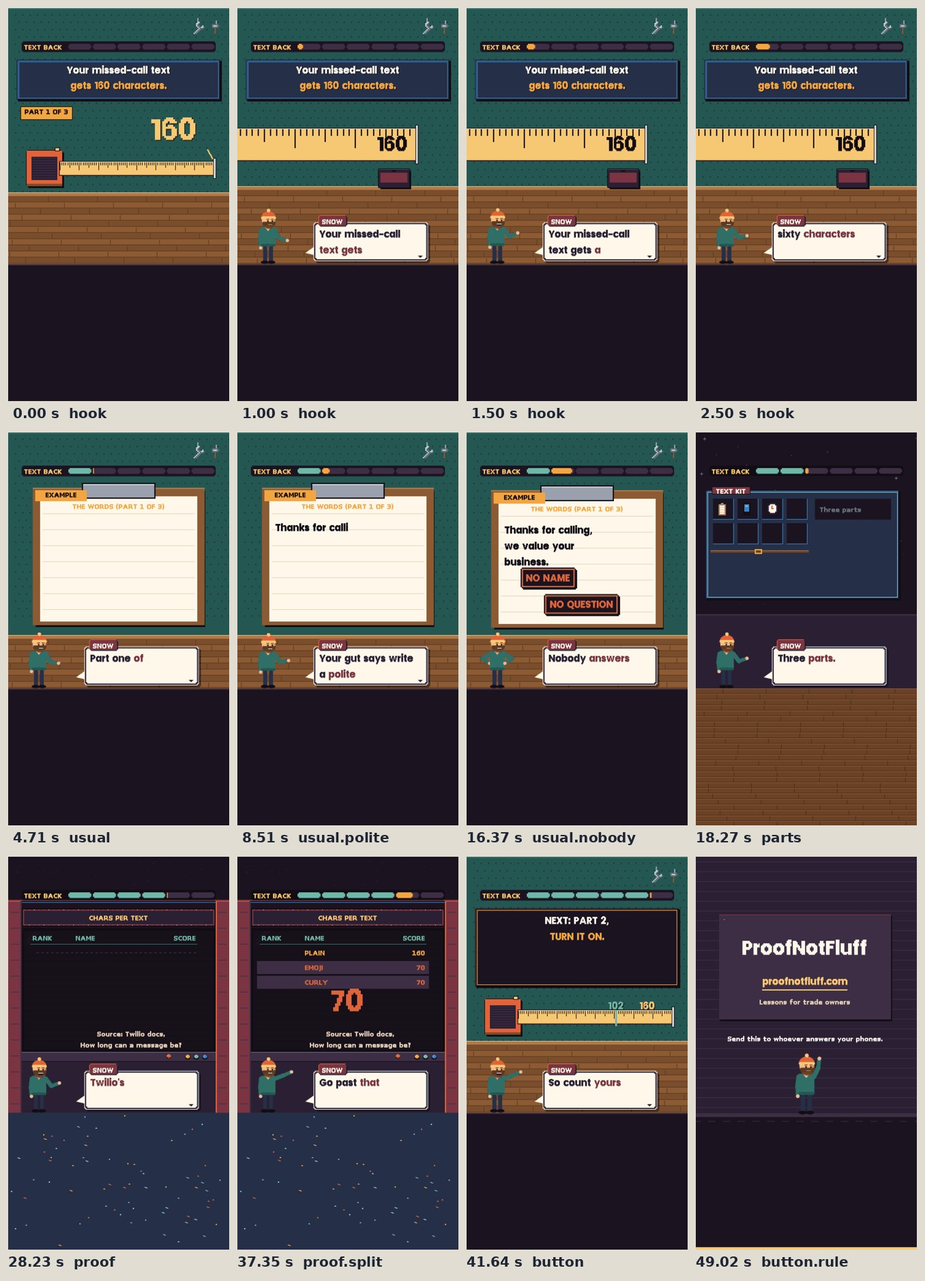
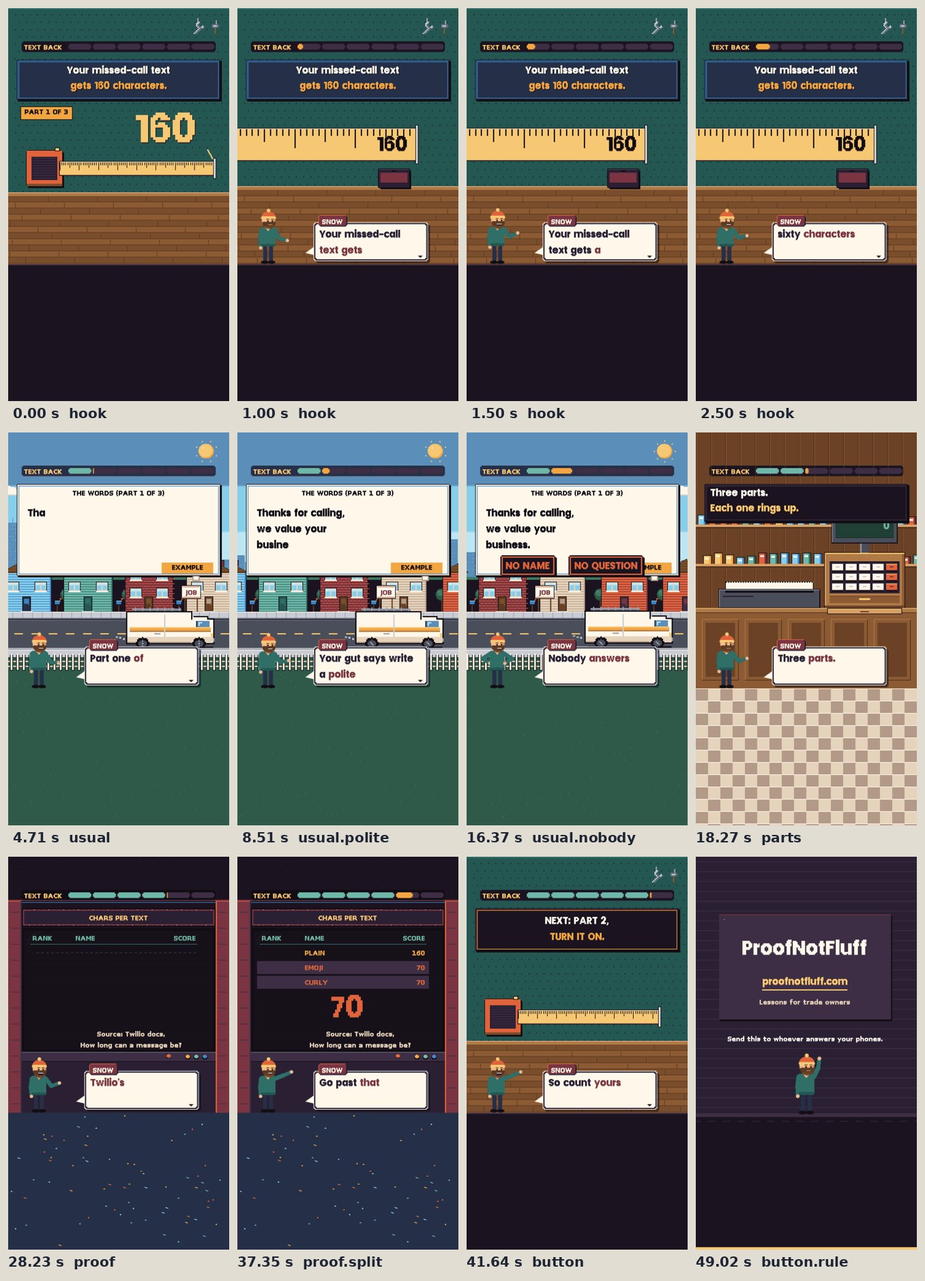
Studio: missed-call-text design fix round (street, register, tape pull, hero sizes); Kimi facts r0 FAIL handled: takes 2 and 4 re-spoken ('There's nothing to answer.', 'splits it and bills each piece'); facts-captions PASS
Claude-Session: https://claude.ai/code/session_01XMn4eGaWzK3tPCYiVrDVRf

diff --git a/video/studio/videos/2026-11-12-missed-call-text/04_scene/scene.js b/video/studio/videos/2026-11-12-missed-call-text/04_scene/scene.js
@@ -2,8 +2,8 @@
 /* 03_cues/cues.md. Numbers only from k.data (brief.md -> data.js); every time from a cue start (k.S) or a spoken word   */
 /* (wordT), so a re-voiced take moves the picture with it.                                                              */
 /* Worlds: hook and button = our own workbench with a tape measure pulled out to the 160 mark (the text's whole budget), */
-/* its close-up and a phone close-up; usual = our own clipboard note; parts = inventory; copy = our own big text card    */
-/* with a character counter; proof = scores. None of them used by the lesson before it in line (brief.md, Worlds).      */
+/* its close-up and a phone close-up; usual = street; parts = register; copy = our own big text card with a hud bar;    */
+/* proof = scores. None of them used by the lesson before it in line (brief.md, Worlds).                                */
 const INK = '#120D14', CREAM = '#FFF7EA', SAND = '#E6D3BC', GOLD = '#F7C873', ORANGE = '#F2A541', RED = '#E2633B', TEAL = '#6FB7A8', GREY = '#9AA0AD';
 const hash = (n) => { const s = Math.sin(n * 127.1 + 311.7) * 43758.5453; return s - Math.floor(s); };
 const clamp = (v, a = 0, b = 1) => Math.max(a, Math.min(b, v));
@@ -151,7 +151,7 @@ window.SCENE = {
       const d = bench(k);
       const t = tape(k, d, {x0: 84, y: 250, len: 250, h: 22, max: n.plain.value});
       /* the one focal point: the hero number over the hook, a gold arrow down to it */
-      k.text(n.plain.shown, 924, 498, {size: 198, color: GOLD, align: 'right', drop: INK});
+      k.text(n.plain.shown, 924, 462, {size: 264, color: GOLD, align: 'right', drop: INK});
       d.line(t.x(n.plain.value) - 10, 230, t.x(n.plain.value) - 2, 244, GOLD, 2);
       hookPlate(k, d, HOOK(n));
       partTag(k, d, n);
@@ -161,32 +161,33 @@ window.SCENE = {
     /* ---- usual: the clipboard on the bench. PART 1 OF 3: THE WORDS on the clip; the polite paragraph types out on    */
     /* "polite"; NO NAME stamps on "name", NO QUESTION on "question"; Snow shrugs on "Nobody".                          */
     usual: (k, T) => {
-      const n = k.data.numbers, d = bench(k, {top: 330}), t0 = k.S('usual'), tPol = k.S('usual.polite');
+      const n = k.data.numbers, t0 = k.S('usual'), tPol = k.S('usual.polite');
       const tName = wordT(k, 'usual.no', /^name/i, 0.5), tQ = wordT(k, 'usual.no', /^question/i, 1.1), tNob = k.S('usual.nobody');
-      const drop = T >= tNob ? Math.min(6, d.fr(tNob) >> 2) : 0;
-      /* the board and the paper */
-      d.P(42 + 3, 92 + 3 + drop, 276, 222, INK); d.P(40, 90 + drop, 280, 224, '#8C5A33'); d.P(40, 90 + drop, 280, 2, '#B07A47');
-      d.P(52, 104 + drop, 256, 204, CREAM); for (let y = 132; y < 300; y += 26) d.P(56, y + drop, 248, 1, '#E6D3BC');
-      d.P(120, 82 + drop, 120, 26, INK); d.P(122, 84 + drop, 116, 22, '#9AA0AD'); d.P(122, 84 + drop, 116, 2, '#C9CCD3');
-      k.text(`THE WORDS (PART ${n.part.shown} OF ${n.series.shown})`, 540, 342 + drop * 3, {size: 39, color: ORANGE, align: 'center'});
-      d.P(44, 94 + drop, 84, 18, ORANGE); k.text('EXAMPLE', 258, 286 + drop * 3, {size: 30, color: INK, align: 'center', lint: false});
+      const r = k.sets.street({t0, speed: 1, stopAt: tNob, stopDur: 0.8, sign: 'JOB', van: true});
+      const d = px(k);
+      /* the text bubble in the sky: the label, then the paragraph typing from the cut, done by "polite" */
+      d.win(14, 84, 332, 150, {base: CREAM, hi: '#FFFFFF', lo: '#C9B79C', rule: '#3B82C4'});
+      d.P(300, 234, 12, 8, '#C9B79C'); d.P(302, 234, 8, 6, CREAM);
+      k.text(`THE WORDS (PART ${n.part.shown} OF ${n.series.shown})`, 540, 276, {size: 39, color: INK, align: 'center'});
+      d.P(250, 212, 84, 18, ORANGE); k.text('EXAMPLE', 876, 640, {size: 30, color: INK, align: 'center', lint: false});
       const lines = ['Thanks for calling,', 'we value your', 'business.'], all = lines.join(' ').length;
-      if (T >= tPol) { const shown = Math.floor(clamp((T - tPol) / 1.6) * all); let used = 0;
-        lines.forEach((s, i) => { const c = clamp(shown - used, 0, s.length); used += s.length + 1; if (c > 0) k.text(s.slice(0, c), 186, 432 + i * 78 + drop * 3, {size: 66, color: INK}); }); }
-      if (T >= tName) stampBox(k, 'NO NAME', 400, 660, tName, {color: RED, freeze: 4});
-      if (T >= tQ) stampBox(k, 'NO QUESTION', 560, 790, tQ, {color: RED});
+      const shown = Math.floor(clamp((T - (t0 + 0.3)) / Math.max(0.6, tPol + 0.8 - (t0 + 0.3))) * all); let used = 0;
+      lines.forEach((s2, i2) => { const c = clamp(shown - used, 0, s2.length); used += s2.length + 1; if (c > 0) k.text(s2.slice(0, c), 96, 360 + i2 * 78, {size: 66, color: INK}); });
+      if (T >= tName) stampBox(k, 'NO NAME', 300, 600, tName, {color: RED, freeze: 4});
+      if (T >= tQ) stampBox(k, 'NO QUESTION', 680, 600, tQ, {color: RED});
       return host(k, T >= tNob ? 'shrug' : (k.live('usual.no') ? 'point' : null));
     },
 
-    /* ---- parts: the inventory set, TEXT KIT. Three slots (who, sorry, ask); the cursor jumps on "Who", "Sorry" and    */
-    /* "question"; each part's words land in the set's area.                                                           */
+    /* ---- parts: the register set. WHO 29 rings on "Who", SORRY 26 on "Sorry", ASK 47 before the cut, CHARS 102 prints */
+    /* as the total; the part's words land in the set's area.                                                         */
     parts: (k, T) => {
-      const t0 = k.S('parts'), tWho = wordT(k, 'parts', /^who/i, 0.8), tSor = wordT(k, 'parts', /^sorry/i, 1.6);
-      const r = k.sets.inventory({title: 'TEXT KIT', hint: 'Three parts',
-        items: [{icon: 'clip', name: 'WHO'}, {icon: 'phone', name: 'SORRY'}, {icon: 'clock', name: 'ASK'}],
-        select: [{slot: 0, at: tWho}, {slot: 1, at: tSor}]});
-      const say = T >= tSor ? ['Sorry I missed', 'your call.', tSor] : T >= tWho ? ['Who you are:', 'name and trade.', tWho] : null;
-      if (say) { k.slam(say[0], 84, 624, say[2], {size: 66, color: CREAM, from: 0.4, drop: INK, glint: false}); k.slam(say[1], 84, 702, say[2] + 0.06, {size: 66, color: GOLD, from: 0.4, drop: INK, glint: false}); }
+      const n = k.data.numbers, t0 = k.S('parts'), tWho = wordT(k, 'parts', /^who/i, 0.8), tSor = wordT(k, 'parts', /^sorry/i, 1.6), tEnd = k.S('copy');
+      k.sets.register({prefix: '', totalLabel: 'CHARS', displayLabel: 'CHARS', items: [
+        {label: 'WHO', amount: n.who.value, at: tWho}, {label: 'SORRY', amount: n.sorry.value, at: tSor}, {label: 'ASK', amount: n.ask.value, at: Math.max(tSor + 0.6, tEnd - 0.9)}],
+        totalAt: Math.max(tSor + 0.9, tEnd - 0.5)});
+      const say = T >= tSor ? ['Sorry I missed', 'your call.', tSor] : T >= tWho ? ['Who you are:', 'name and trade.', tWho] : ['Three parts.', 'Each one rings up.', t0];
+      const d = px(k); d.win(14, 84, 332, 62, {base: '#1B1420', hi: '#3D2E45', lo: INK, rule: '#3D2E45'});
+      k.slam(say[0], 72, 262, say[2], {size: 66, color: CREAM, from: 0.4, drop: INK, glint: false}); k.slam(say[1], 72, 336, say[2] + 0.06, {size: 66, color: GOLD, from: 0.4, drop: INK, glint: false});
       return host(k, k.live('parts') && T >= tWho ? 'point' : null);
     },
 
@@ -213,16 +214,16 @@ window.SCENE = {
     /* on "Curly"; the source on the screen the whole time it is said; 2 PIECES, 2 BILLS stamps on "bills".             */
     proof: (k, T) => {
       const n = k.data.numbers, t0 = k.S('proof'), tPl = wordT(k, 'proof', /^plain/i, 1.4), tEm = wordT(k, 'proof.emoji', /^emoji/i, 0.5);
-      const tCu = wordT(k, 'proof.emoji', /^curly/i, 2.4), tBill = wordT(k, 'proof.split', /^bills/i, 2.4);
+      const tCu = wordT(k, 'proof.emoji', /^curly/i, 2.4), tBill = wordT(k, 'proof.split', /^piece/i, 2.4);
       k.sets.scores({title: 'CHARS PER TEXT', t0: tPl - 0.2, gap: 0, count: 0.6, rows: [
         {name: 'PLAIN', value: n.plain.value, rank: ' '}]});
       const d = px(k);
       /* rows 2 and 3 drawn on the table's grid (y 174, 198) as they are said, red: the drop */
       [[tEm, 'EMOJI', 174], [tCu, 'CURLY', 198]].forEach(([ti, name, y]) => { if (T < ti) return; const sl = d.ease(ti, 5, 40);
         d.P(32, y - 4, 280, 21, '#3D2E45'); d.tx(name, 110 + sl, y, {color: RED}); d.tx(n.emoji.shown, 306 + sl, y, {color: RED, align: 'right'}); });
-      if (T >= tBill) stampBox(k, `${n.segs.shown} PIECES, ${n.segs.shown} BILLS`, 540, 650, tBill, {color: RED, freeze: 4});
-      else if (T >= tEm) k.slam(n.emoji.shown, 540, 610, tEm, {size: 198, color: RED, align: 'center', from: 0.5, drop: INK, glint: false});
-      else if (T >= tPl) k.slam(n.plain.shown, 540, 610, tPl, {size: 198, color: GOLD, align: 'center', from: 0.5, drop: INK, glint: false});
+      if (T >= tBill) { k.text("Sam's text plus an emoji:", 540, 600, {size: 39, color: CREAM, align: 'center'}); stampBox(k, `${n.segs.shown} PIECES, ${n.segs.shown} BILLS`, 540, 664, tBill, {color: RED, freeze: 4}); }
+      else if (T >= tEm) k.slam(n.emoji.shown, 540, 640, tEm, {size: 198, color: RED, align: 'center', from: 0.5, drop: INK, glint: false});
+      else if (T >= tPl) k.slam(n.plain.shown, 540, 640, tPl, {size: 198, color: GOLD, align: 'center', from: 0.5, drop: INK, glint: false});
       k.text('Source: Twilio docs,', 600, 846, {size: 39, color: SAND, align: 'center'});
       k.text('How long can a message be?', 600, 900, {size: 39, color: SAND, align: 'center'});
       return host(k, k.live('proof.split') ? 'point' : null);
@@ -233,9 +234,10 @@ window.SCENE = {
     button: (k, T) => {
       const n = k.data.numbers, t0 = k.S('button'), tKeep = k.S('button.rule');
       const d = bench(k);
-      const t = tape(k, d, {x0: 84, y: 250, len: 250, h: 22, max: n.plain.value, marks: [{v: n.len.value, c: TEAL, at: t0 + 0.3}]});
-      if (T >= t0 + 0.3) k.text(n.len.shown, t.x(n.len.value) * 3, 696, {size: 66, color: TEAL, align: 'center', drop: INK});
-      k.text(n.plain.shown, 920, 696, {size: 66, color: GOLD, align: 'right', drop: INK});
+      const pull = clamp((T - (t0 + 0.1)) / 0.9), lenNow = Math.max(40, Math.round(250 * eo(pull)));
+      const t = tape(k, d, {x0: 84, y: 250, len: lenNow, h: 22, max: Math.max(1, Math.round(n.plain.value * lenNow / 250)), marks: [{v: n.len.value, c: TEAL, at: t0 + 0.9}]});
+      if (T >= t0 + 0.9) k.text(n.len.shown, t.x(n.len.value) * 3, 696, {size: 66, color: TEAL, align: 'center', drop: INK});
+      if (pull >= 1) k.text(n.plain.shown, 920, 696, {size: 66, color: GOLD, align: 'right', drop: INK});
       d.win(14, 84, 332, 70, {base: '#1B1420', hi: '#7A3442', lo: INK, rule: ORANGE});
       if (T < tKeep) { k.slam(`NEXT: PART ${n.next.shown},`, 540, 280, t0 + 0.1, {size: 66, color: CREAM, align: 'center', from: 0.4, drop: INK, glint: false}); k.slam('TURN IT ON.', 540, 358, t0 + 0.16, {size: 66, color: ORANGE, align: 'center', from: 0.4, drop: INK, glint: false}); }
       else { k.slam('Keep it plain.', 540, 280, tKeep, {size: 66, color: CREAM, align: 'center', from: 0.4, drop: INK, glint: false}); k.slam(`Under ${n.plain.shown}.`, 540, 358, tKeep + 0.1, {size: 66, color: GOLD, align: 'center', from: 0.4, drop: INK, glint: false}); k.sweep(540 - k.measure(`Under ${n.plain.shown}.`, {size: 66}) / 2, 432, k.measure(`Under ${n.plain.shown}.`, {size: 66}), 6, tKeep + 0.4, {color: 'accent'}); }

diff --git a/video/studio/videos/2026-11-12-missed-call-text/03_cues/cues.js b/video/studio/videos/2026-11-12-missed-call-text/03_cues/cues.js
@@ -1,1 +1,1 @@
-window.CUES = {"schema": "pnf.studio.cues.v1", "source": "whisper medium.en int8, re-spelled from script.md", "music": {"id": "rooms", "level": 0.16, "tune": "bounce"}, "duration": 49.318, "cues": [{"id": "hook", "level": 0, "quote": "Your missed-call text gets", "sfx": "pop", "shift": 0.0, "pin": null, "text": "Three shots. Cover, frame one, host and dialog box hidden: our own workbench in daylight, a tape measure pulled out across it, the blade's numbers big, the gold end hook resting on the 160 mark; one focal object, the hero number \"160\" above the tape; plate \"160 characters\" / \"to book the job.\", chip \"PART 1 OF 3\". By 0.8 s cut in close on the tape's hook at 160 (the blade's ticks big, a missed-call phone lying on the bench beside it); Snow and the dialog box come in. On \"book\" cut to the third shot: the phone close up, MISSED CALL on its screen, a blank text bubble with a cursor and \"0 / 160\" under it.", "t": 0.0, "word": 0, "end": 4.108}, {"id": "usual", "level": 0, "quote": "Part one of three,", "sfx": "whoosh", "shift": 0.0, "pin": null, "text": "Our own clipboard on the bench: \"PART 1 OF 3: THE WORDS\" on the clip, the paper blank, a pencil over it. EXAMPLE tag.", "t": 4.108, "word": 12, "end": 17.672}, {"id": "usual.polite", "level": 1, "quote": "write a polite paragraph,", "sfx": "blip", "shift": 0.0, "pin": null, "text": "The usual paragraph types out on the paper: \"Thanks for calling, we value your business.\"", "t": 7.908, "word": 21, "end": 12.928}, {"id": "usual.no", "level": 1, "quote": "But there's no name", "sfx": "stamp", "shift": 0.0, "pin": null, "text": "NO NAME stamps in red over the note; NO QUESTION follows on \"question\".", "t": 12.928, "word": 33, "end": 15.768}, {"id": "usual.nobody", "level": 1, "quote": "Nobody answers that.", "sfx": "tick", "shift": 0.0, "pin": null, "text": "Snow shrugs; the note slides down a pixel at a time.", "t": 15.768, "word": 42, "end": 17.672}, {"id": "parts", "level": 0, "quote": "Three parts. Who you", "sfx": "whoosh", "shift": 0.0, "pin": null, "text": "The inventory set, title TEXT KIT. Three slots: WHO YOU ARE (clip), SORRY (phone), ONE QUESTION (clock). The cursor jumps to WHO on \"Who\" and SORRY on \"Sorry\"; the detail pane names it, the part's words land under the belt.", "t": 17.672, "word": 45, "end": 21.872}, {"id": "copy", "level": 0, "quote": "Then one question that", "sfx": "pop", "shift": 0.0, "pin": null, "text": "The big text card, EXAMPLE: \"Hi, this is Sam the plumber. Sorry I missed your call. What do you need fixed, and when works for you?\" Each part gets its slot colour bar as it is said (\"question\" lights the ask); the counter under it counts up to 102 / 160, the tape strip fills to 102 under the 160 mark.", "t": 21.872, "word": 55, "end": 27.631}, {"id": "proof", "level": 0, "quote": "Twilio's guide says one", "sfx": "whoosh", "shift": 0.0, "pin": null, "text": "The scores set, title CHARS PER TEXT: row PLAIN 160 lands on \"plain\". Source tag up top while it is said: \"Twilio docs: How long can a message be?\".", "t": 27.631, "word": 72, "end": 41.038}, {"id": "proof.emoji", "level": 1, "quote": "Add one emoji and", "sfx": "tick", "shift": 0.0, "pin": null, "text": "Row EMOJI 70 lands in red; row CURLY \" 70 on \"Curly\".", "t": 31.991, "word": 83, "end": 36.751}, {"id": "proof.split", "level": 1, "quote": "Go past that and", "sfx": "stamp", "shift": 0.0, "pin": null, "text": "Under the table: \"102 + emoji = 2 pieces, 2 bills.\" stamps on \"bills\".", "t": 36.751, "word": 97, "end": 41.038}, {"id": "button", "level": 0, "quote": "So count yours before", "sfx": "whoosh", "shift": 0.0, "pin": null, "text": "Back on the workbench, the tape out to 160, the clean text's 102 marked on the blade in teal. Card: \"NEXT: PART 2, TURN IT ON.\"", "t": 41.038, "word": 109, "end": 49.318}, {"id": "button.rule", "level": 1, "quote": "Keep it plain, and", "sfx": "sting", "shift": 0.0, "pin": null, "text": "The rule lands in gold: \"Keep it plain. Under 160.\" Snow waves. Then the end card with the send line: \"Send this to whoever answers your phones.\"", "t": 44.058, "word": 118, "end": 49.318}]};
+window.CUES = {"schema": "pnf.studio.cues.v1", "source": "whisper medium.en int8, re-spelled from script.md", "music": {"id": "rooms", "level": 0.16, "tune": "bounce"}, "duration": 49.318, "cues": [{"id": "hook", "level": 0, "quote": "Your missed-call text gets", "sfx": "pop", "shift": 0.0, "pin": null, "text": "Three shots. Cover, frame one, host and dialog box hidden: our own workbench in daylight, a tape measure pulled out across it, the blade's numbers big, the gold end hook resting on the 160 mark; one focal object, the hero number \"160\" above the tape; plate \"160 characters\" / \"to book the job.\", chip \"PART 1 OF 3\". By 0.8 s cut in close on the tape's hook at 160 (the blade's ticks big, a missed-call phone lying on the bench beside it); Snow and the dialog box come in. On \"book\" cut to the third shot: the phone close up, MISSED CALL on its screen, a blank text bubble with a cursor and \"0 / 160\" under it.", "t": 0.0, "word": 0, "end": 4.108}, {"id": "usual", "level": 0, "quote": "Part one of three,", "sfx": "whoosh", "shift": 0.0, "pin": null, "text": "The street set: the van driving between jobs; a text bubble in the sky with \"THE WORDS (PART 1 OF 3)\" and the usual paragraph typing out at once. EXAMPLE tag.", "t": 4.108, "word": 12, "end": 17.672}, {"id": "usual.polite", "level": 1, "quote": "write a polite paragraph,", "sfx": "blip", "shift": 0.0, "pin": null, "text": "The paragraph finishes: \"Thanks for calling, we value your business.\"", "t": 7.908, "word": 21, "end": 12.928}, {"id": "usual.no", "level": 1, "quote": "But there's no name", "sfx": "stamp", "shift": 0.0, "pin": null, "text": "NO NAME stamps in red over the note; NO QUESTION follows on \"question\".", "t": 12.928, "word": 33, "end": 15.768}, {"id": "usual.nobody", "level": 1, "quote": "Nobody answers that.", "sfx": "tick", "shift": 0.0, "pin": null, "text": "The van brakes and parks; Snow shrugs.", "t": 15.768, "word": 42, "end": 17.672}, {"id": "parts", "level": 0, "quote": "Three parts. Who you", "sfx": "whoosh", "shift": 0.0, "pin": null, "text": "The register set: WHO 29 rings on \"Who\", SORRY 26 on \"Sorry\", ASK 47 before the cut, CHARS 102 prints as the total.", "t": 17.672, "word": 45, "end": 21.872}, {"id": "copy", "level": 0, "quote": "Then one question that", "sfx": "pop", "shift": 0.0, "pin": null, "text": "The big text card, EXAMPLE: \"Hi, this is Sam the plumber. Sorry I missed your call. What do you need fixed, and when works for you?\" Each part gets its slot colour bar as it is said (\"question\" lights the ask); the counter under it counts up to 102 / 160, the tape strip fills to 102 under the 160 mark.", "t": 21.872, "word": 55, "end": 27.631}, {"id": "proof", "level": 0, "quote": "Twilio's guide says one", "sfx": "whoosh", "shift": 0.0, "pin": null, "text": "The scores set, title CHARS PER TEXT: row PLAIN 160 lands on \"plain\". Source tag up top while it is said: \"Twilio docs: How long can a message be?\".", "t": 27.631, "word": 72, "end": 41.038}, {"id": "proof.emoji", "level": 1, "quote": "Add one emoji and", "sfx": "tick", "shift": 0.0, "pin": null, "text": "Row EMOJI 70 lands in red; row CURLY \" 70 on \"Curly\".", "t": 31.991, "word": 83, "end": 36.751}, {"id": "proof.split", "level": 1, "quote": "Go past that and", "sfx": "stamp", "shift": 0.0, "pin": null, "text": "Under the table: \"102 + emoji = 2 pieces, 2 bills.\" stamps on \"bills\".", "t": 36.751, "word": 97, "end": 41.038}, {"id": "button", "level": 0, "quote": "So count yours before", "sfx": "whoosh", "shift": 0.0, "pin": null, "text": "Back on the workbench, the tape out to 160, the clean text's 102 marked on the blade in teal. Card: \"NEXT: PART 2, TURN IT ON.\"", "t": 41.038, "word": 109, "end": 49.318}, {"id": "button.rule", "level": 1, "quote": "Keep it plain, and", "sfx": "sting", "shift": 0.0, "pin": null, "text": "The rule lands in gold: \"Keep it plain. Under 160.\" Snow waves. Then the end card with the send line: \"Send this to whoever answers your phones.\"", "t": 44.058, "word": 118, "end": 49.318}]};

diff --git a/video/studio/videos/2026-11-12-missed-call-text/04_scene/data.js b/video/studio/videos/2026-11-12-missed-call-text/04_scene/data.js
@@ -1,1 +1,1 @@
[2 lines of base64/hex data omitted]

diff --git a/video/studio/videos/2026-11-12-missed-call-text/03_cues/cues.md b/video/studio/videos/2026-11-12-missed-call-text/03_cues/cues.md
@@ -6,16 +6,16 @@ music: rooms bounce
 Three shots. Cover, frame one, host and dialog box hidden: our own workbench in daylight, a tape measure pulled out across it, the blade's numbers big, the gold end hook resting on the 160 mark; one focal object, the hero number "160" above the tape; plate "160 characters" / "to book the job.", chip "PART 1 OF 3". By 0.8 s cut in close on the tape's hook at 160 (the blade's ticks big, a missed-call phone lying on the bench beside it); Snow and the dialog box come in. On "book" cut to the third shot: the phone close up, MISSED CALL on its screen, a blank text bubble with a cursor and "0 / 160" under it.
 
 ## usual "Part one of three," [sfx: whoosh]
-Our own clipboard on the bench: "PART 1 OF 3: THE WORDS" on the clip, the paper blank, a pencil over it. EXAMPLE tag.
+The street set: the van driving between jobs; a text bubble in the sky with "THE WORDS (PART 1 OF 3)" and the usual paragraph typing out at once. EXAMPLE tag.
 ## usual.polite "write a polite paragraph," [sfx: blip]
-The usual paragraph types out on the paper: "Thanks for calling, we value your business."
+The paragraph finishes: "Thanks for calling, we value your business."
 ## usual.no "But there's no name" [sfx: stamp]
 NO NAME stamps in red over the note; NO QUESTION follows on "question".
-## usual.nobody "Nobody answers that." [sfx: tick]
-Snow shrugs; the note slides down a pixel at a time.
+## usual.nobody "There's nothing to answer." [sfx: tick]
+The van brakes and parks; Snow shrugs.
 
 ## parts "Three parts. Who you" [sfx: whoosh]
-The inventory set, title TEXT KIT. Three slots: WHO YOU ARE (clip), SORRY (phone), ONE QUESTION (clock). The cursor jumps to WHO on "Who" and SORRY on "Sorry"; the detail pane names it, the part's words land under the belt.
+The register set: WHO 29 rings on "Who", SORRY 26 on "Sorry", ASK 47 before the cut, CHARS 102 prints as the total.
 
 ## copy "Then one question that" [sfx: pop]
 The big text card, EXAMPLE: "Hi, this is Sam the plumber. Sorry I missed your call. What do you need fixed, and when works for you?" Each part gets its slot colour bar as it is said ("question" lights the ask); the counter under it counts up to 102 / 160, the tape strip fills to 102 under the 160 mark.
@@ -25,7 +25,7 @@ The scores set, title CHARS PER TEXT: row PLAIN 160 lands on "plain". Source tag
 ## proof.emoji "Add one emoji and" [sfx: tick]
 Row EMOJI 70 lands in red; row CURLY " 70 on "Curly".
 ## proof.split "Go past that and" [sfx: stamp]
-Under the table: "102 + emoji = 2 pieces, 2 bills." stamps on "bills".
+Under the table: "Sam's text plus an emoji:" and "2 PIECES, 2 BILLS" stamps on "piece".
 
 ## button "So count yours before" [sfx: whoosh]
 Back on the workbench, the tape out to 160, the clean text's 102 marked on the blade in teal. Card: "NEXT: PART 2, TURN IT ON."

diff --git a/video/studio/videos/2026-11-12-missed-call-text/01_voice/brief.md b/video/studio/videos/2026-11-12-missed-call-text/01_voice/brief.md
@@ -27,8 +27,8 @@ Twilio's "How long can a message be?" docs page; every line in facts.json quoted
 - **Voice:** Todd's own voice clone in `_shared/voice.md` (Eleven v4).
 - **Real screens:** Twilio's limits as its own table states them (GSM-7 160, UCS-2 70) on a high-score table, the source
   tag "Twilio docs: How long can a message be?" on screen while it is said.
-- **Worlds (_shared/sets.md):** our own tape measure on a workbench (hook and button), our own clipboard note (the usual
-  paragraph), `inventory` (the three parts), our own big text card with a character counter (the copy), `scores` (the
+- **Worlds (_shared/sets.md):** our own tape measure on a workbench (hook and button), `street` (the usual paragraph, typed
+  between jobs), `register` (the three parts ring up to 102), our own big text card with a character counter (the copy), `scores` (the
   limits). None used by the lesson before it in line (lsa-missed-calls: its own night street, gauge, chat, flaps, versus).
 - **End card send line:** "Send this to whoever answers your phones." (SCENE.sendLine)
 - **Asked by owners:** thin. No owner forum thread from the last 90 days surfaced on public search (Reddit refused in the
@@ -59,7 +59,7 @@ Twilio's "How long can a message be?" docs page; every line in facts.json quoted
 | One emoji drops the limit to 70 | same (UCS-2 switch; 70 per single segment) | same |
 | Curly quotes do it too | same (curly quotation marks are UCS-2; 160 to 70) | same |
 | Past that, Twilio splits it and bills each piece | same (split into 67-character segments; bills per segment) | same |
-| The example text, 102 characters, 3 parts; part 1 of 3, next part 2 | ours (example, labeled; length counted in code) | n/a |
+| The example text, 102 characters (who 29, sorry 26, ask 47), 3 parts; part 1 of 3, next part 2 | ours (example, labeled; length counted in code) | n/a |
 
 ## Numbers on screen
 
@@ -72,6 +72,9 @@ Twilio's "How long can a message be?" docs page; every line in facts.json quoted
  "part": {"path": "example.partNo", "shown": "1"},
  "series": {"path": "example.series", "shown": "3"},
  "segs": {"path": "example.withEmojiSegments", "shown": "2"},
- "next": {"path": "example.nextPart", "shown": "2"}
+ "next": {"path": "example.nextPart", "shown": "2"},
+ "who": {"path": "example.whoLen", "shown": "29"},
+ "sorry": {"path": "example.sorryLen", "shown": "26"},
+ "ask": {"path": "example.askLen", "shown": "47"}
 }}
 ```

diff --git a/video/studio/videos/2026-11-12-missed-call-text/01_voice/script.md b/video/studio/videos/2026-11-12-missed-call-text/01_voice/script.md
@@ -2,10 +2,10 @@
 
 Your missed-call text gets a hundred sixty characters to book the job.
 
-Part one of three, the words. Your gut says write a polite paragraph, like thanks for calling, we value your business. But there's no name and no question in it. Nobody answers that.
+Part one of three, the words. Your gut says write a polite paragraph, like thanks for calling, we value your business. But there's no name and no question in it. There's nothing to answer.
 
 Three parts. Who you are. Sorry I missed your call. Then one question that books it, like what do you need fixed, and when works for you?
 
-[matter-of-fact] Twilio's guide says one plain text holds a hundred sixty characters. Add one emoji and the limit drops to seventy. Curly quotes do it too. Go past that and Twilio splits it in two and bills both.
+[matter-of-fact] Twilio's guide says one plain text holds a hundred sixty characters. Add one emoji and the limit drops to seventy. Curly quotes do it too. Go past that and Twilio splits it and bills each piece.
 
 [confident] So count yours before part two turns it on. Keep it plain, and keep it under a hundred sixty.
